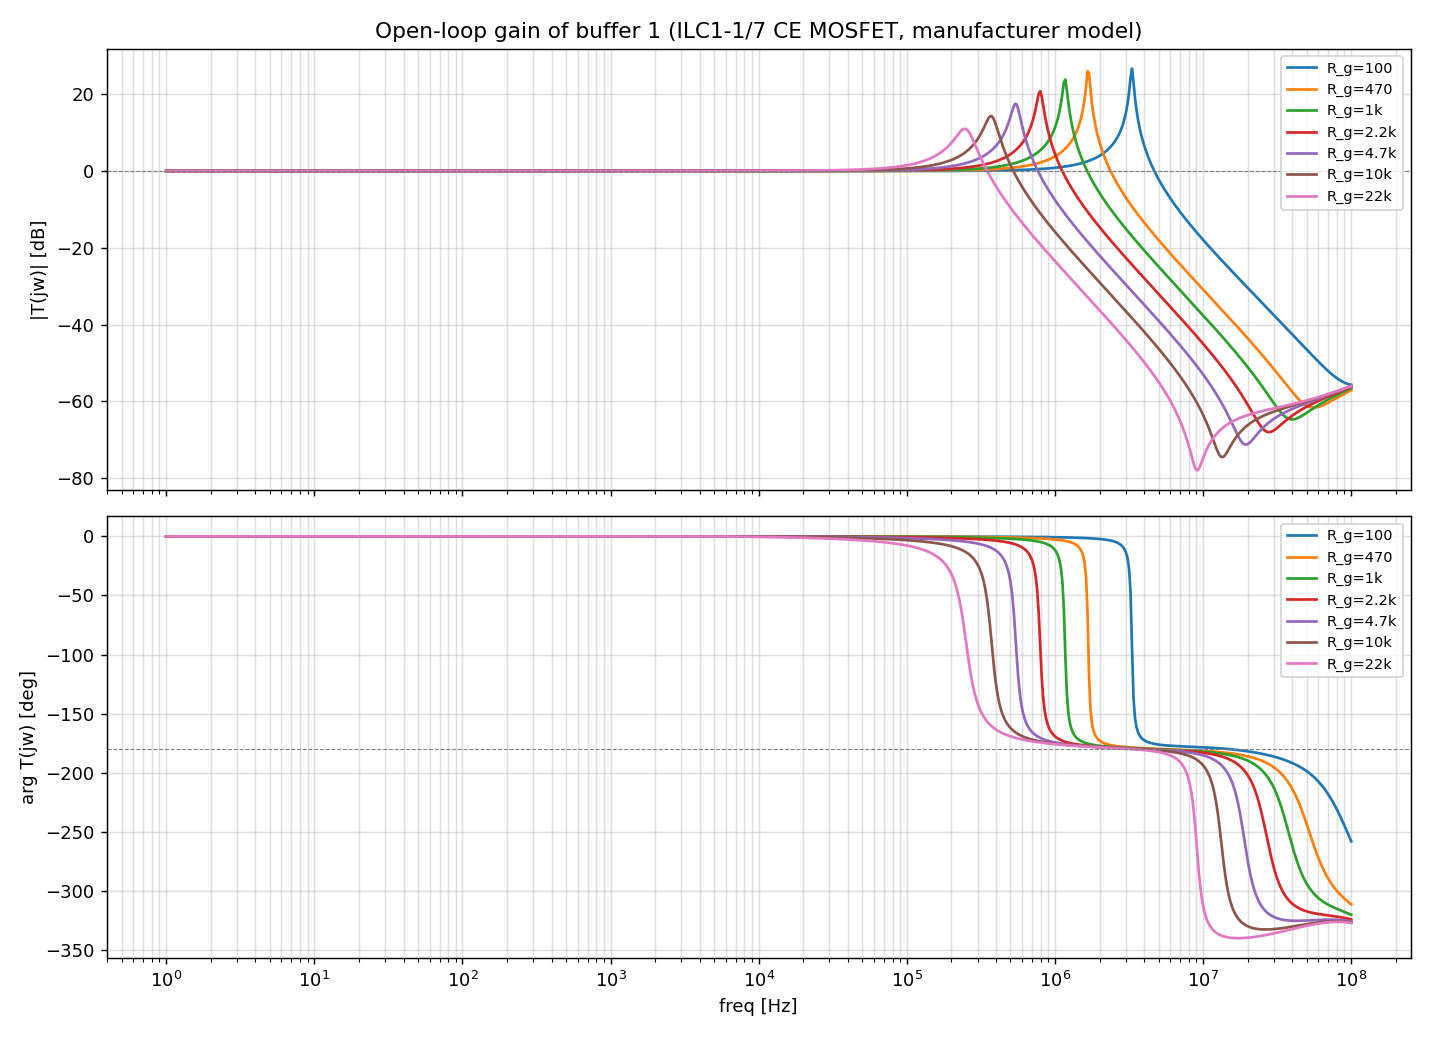
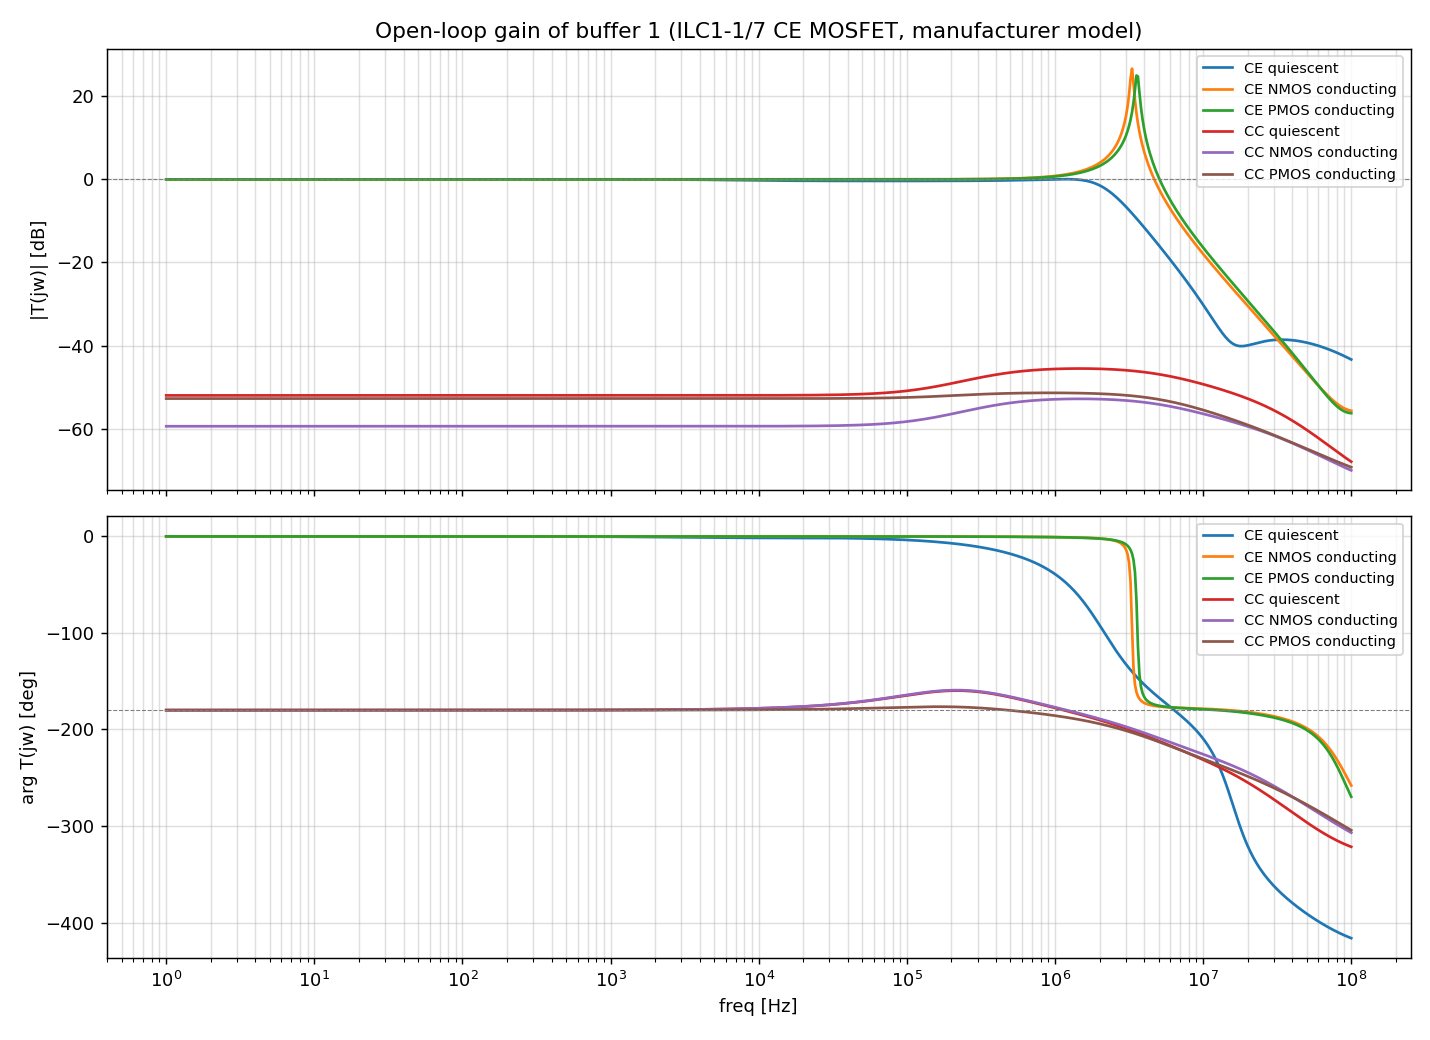
Add MOSFET source-follower (CC) buffer topology; AC confirms stability
The CE common-source MOSFET topology was unsalvageably unstable per the
AC analysis (20-27 dB resonance peak at 3-7 MHz at conducting OPs).
The motivation for CE was BJT-specific: BJT V_BE drop loses ~0.65 V
of output swing in CC, while BJT V_CE_sat in CE only loses ~0.2 V. For
MOSFETs the equivalent is V_GS (~1 V) vs V_DS_sat (~mV), so CE saves
~1 V of swing.

For ILC1-1/7 at v_buf=4.3 V, BJT CC just fits (V_pk + V_BE = 3.54 +
0.65 = 4.2 V < 4.3 V rail). MOSFET source follower at the same rail
needs V_pk + V_GS = 3.54 + ~1.5 = 5 V, which doesn't fit -- but the
existing bootstrap caps in the BJT CC bias chain (C_obb_top/bot, 4.7
uF from chain mid-point to output) lift the gate past v_buf at the
swing peak, recovering the headroom.

Implementation: extend the existing CC topology block (Q_o_npn / Q_o_pnp
emitter followers) to optionally instantiate MOSFETs in source-follower
configuration when mos_buf=True (and ce_buf=False). Same bias chain
(R-D-D-R with bootstrap), just MOSFETs swapped in for BJTs.

ILC1-1/7 set to mos_buf=True, ce_buf=False (default), v_buf=4.3 V.
buf_comp_pf, bias_zener_v, gate damping all dropped -- not needed for
source follower since the loop is naturally stable.

AC analysis (ac_buf_analysis.py with topology="cc"): loop gain stays
well below 0 dB at ALL operating points (quiescent, NMOS conducting,
PMOS conducting). No unity-gain crossing -> inherently stable. CE
topology in the same file shows the contrast:
  CE quiescent:        peak 0.1 dB
[…]

diff --git a/ngspice_examples/ac_buf_analysis.py b/ngspice_examples/ac_buf_analysis.py
@@ -32,7 +32,8 @@ def build_netlist(comp_pf: float, r_obb: float, r_gate: float,
                   comp_zero_r: float = 0,
                   drain_snub_r: float = 0,
                   drain_snub_c: float = 0,
-                  v_drv_dc: float = 0.0) -> str:
+                  v_drv_dc: float = 0.0,
+                  topology: str = "ce") -> str:
     pmos_path = (HERE / "spice_models" / "DMP3098L.spice.txt").as_posix()
     nmos_path = (HERE / "spice_models" / "DMN3404L.spice.txt").as_posix()
     opamp_lib = (HERE / "uopamp.lib").as_posix()
@@ -48,6 +49,26 @@ def build_netlist(comp_pf: float, r_obb: float, r_gate: float,
     else:
         snub_block = (f"R_drain_snub v_osc_drive n_drain_snub {drain_snub_r:.4g}\n"
                       f"C_drain_snub n_drain_snub 0 {drain_snub_c:.4g}")
+    if topology == "ce":
+        # Common source: PMOS source at vcc_buf, drain at output (top);
+        #                NMOS source at vee_buf, drain at output (bottom).
+        mosfet_block = (
+            "* MOSFETs (CE / common source) - drain at v_osc_drive\n"
+            "XM_top     v_osc_drive g_top vcc_buf DMP3098L\n"
+            "XM_bot     v_osc_drive g_bot vee_buf DMN3404L"
+        )
+    elif topology == "cc":
+        # Source follower: NMOS drain at vcc_buf, source at output (top);
+        #                  PMOS drain at vee_buf, source at output (bottom).
+        # Note swap of NMOS/PMOS positions vs CE topology: in CC, the NMOS
+        # is on top because its source follows the gate (positive output).
+        mosfet_block = (
+            "* MOSFETs (CC / source follower) - source at v_osc_drive\n"
+            "XM_top     vcc_buf g_top v_osc_drive DMN3404L\n"
+            "XM_bot     vee_buf g_bot v_osc_drive DMP3098L"
+        )
+    else:
+        raise ValueError(f"Unknown topology: {topology}")
     return f"""* Buffer 1 isolated AC small-signal testbench
 .include {opamp_lib}
 .include {pmos_path}
@@ -78,12 +99,10 @@ R_obb_top   vcc_buf         q_o_bp_top    {r_obb:.6g}
 D_obb_top   n_buf_osc_out   q_o_bp_top    Dzen_obb
 D_obb_bot   q_o_bn_bot      n_buf_osc_out Dzen_obb
 R_obb_bot   q_o_bn_bot      vee_buf       {r_obb:.6g}
-* Gate damping
-R_gd_pmos   q_o_bp_top      g_pmos        {r_gate:.6g}
-R_gd_nmos   q_o_bn_bot      g_nmos        {r_gate:.6g}
-* MOSFETs - drain at v_osc_drive (the real output node)
-XM_pmos     v_osc_drive g_pmos vcc_buf DMP3098L
-XM_nmos     v_osc_drive g_nmos vee_buf DMN3404L
+* Gate damping (g_top is gate of top device, g_bot of bottom)
+R_gd_top    q_o_bp_top      g_top         {r_gate:.6g}
+R_gd_bot    q_o_bn_bot      g_bot         {r_gate:.6g}
+{mosfet_block}
 * Output load: bridge thevenin (R_op + R_sense in parallel with reference arm)
 R_load      v_osc_drive 0 30
 .model Dzen_obb D(IS=10n N=1.0 RS=1 BV={v_z:.3g} IBV=100m CJO=80p TT=10n)
@@ -101,9 +120,11 @@ def run_and_load(comp_pf: float, r_obb: float, r_gate: float,
                  v_buf: float, v_z: float, buf_fb: float,
                  comp_zero_r: float = 0,
                  drain_snub_r: float = 0, drain_snub_c: float = 0,
-                 v_drv_dc: float = 0.0):
+                 v_drv_dc: float = 0.0,
+                 topology: str = "ce"):
     netlist = build_netlist(comp_pf, r_obb, r_gate, v_buf, v_z, buf_fb,
-                            comp_zero_r, drain_snub_r, drain_snub_c, v_drv_dc)
+                            comp_zero_r, drain_snub_r, drain_snub_c, v_drv_dc,
+                            topology)
     cir = WORK / "ac_buf.cir"
     cir.write_text(netlist)
     res = subprocess.run(["ngspice", "-b", cir.name], cwd=WORK,
@@ -134,17 +155,16 @@ def plot_bode(f, T, label, ax_mag, ax_phase, color):
 
 def main():
     # Sweep over a few comp / damping combinations.
-    # Sweep candidate compensations at the worst-case operating point
-    # (MOSFET conducting hard, where g_m is highest).
-    op_test = dict(v_drv_dc=+0.4)  # NMOS conducting hard
+    # Compare CE (common source) vs CC (source follower) topologies at
+    # quiescent and conducting operating points. Source follower should be
+    # inherently stable (no Miller, gain ~ 1) where common-source is not.
     sweeps = [
-        ("R_g=100",   dict(comp_pf=2200, r_gate=100,   **op_test)),
-        ("R_g=470",   dict(comp_pf=2200, r_gate=470,   **op_test)),
-        ("R_g=1k",    dict(comp_pf=2200, r_gate=1000,  **op_test)),
-        ("R_g=2.2k",  dict(comp_pf=2200, r_gate=2200,  **op_test)),
-        ("R_g=4.7k",  dict(comp_pf=2200, r_gate=4700,  **op_test)),
-        ("R_g=10k",   dict(comp_pf=2200, r_gate=10000, **op_test)),
-        ("R_g=22k",   dict(comp_pf=2200, r_gate=22000, **op_test)),
+        ("CE quiescent",          dict(comp_pf=2200, r_gate=100, v_drv_dc=0.0,  topology="ce")),
+        ("CE NMOS conducting",    dict(comp_pf=2200, r_gate=100, v_drv_dc=+0.4, topology="ce")),
+        ("CE PMOS conducting",    dict(comp_pf=2200, r_gate=100, v_drv_dc=-0.4, topology="ce")),
+        ("CC quiescent",          dict(comp_pf=0,    r_gate=100, v_drv_dc=0.0,  topology="cc")),
+        ("CC NMOS conducting",    dict(comp_pf=0,    r_gate=100, v_drv_dc=+0.4, topology="cc")),
+        ("CC PMOS conducting",    dict(comp_pf=0,    r_gate=100, v_drv_dc=-0.4, topology="cc")),
     ]
     fig, (ax_mag, ax_phase) = plt.subplots(2, 1, figsize=(11, 8), sharex=True)
     for i, (label, kw) in enumerate(sweeps):
@@ -155,7 +175,8 @@ def main():
                                comp_zero_r=kw.get("comp_zero_r", 0),
                                drain_snub_r=kw.get("drain_snub_r", 0),
                                drain_snub_c=kw.get("drain_snub_c", 0),
-                               v_drv_dc=kw.get("v_drv_dc", 0.0))
+                               v_drv_dc=kw.get("v_drv_dc", 0.0),
+                               topology=kw.get("topology", "ce"))
         plot_bode(f, T, label, ax_mag, ax_phase, f"C{i}")
         # Find unity-gain crossover
         mag_db = 20 * np.log10(np.abs(T))

diff --git a/ngspice_examples/test_closed_loop.py b/ngspice_examples/test_closed_loop.py
@@ -101,7 +101,7 @@ TUBES = {
     # the JFET closer to pinch-off where (1-H) is larger and V_top swing is
     # only fractionally bigger than V_diff (efficient class-AB).
     "iv6":     _make_tube("IV-6",     R_op= 20, V_op=1.0, T_op=800, R_sen= 5, R_bot_ref=500,  r_int_scale=0.3, booster=True, buf_fb1=2.0e3, buf_fb_ap=2.0e3, v_buf=1.2, ce_buf=True, mos_buf=True),
-    "ilc11_7": _make_tube("ILC1-1/7", R_op= 25, V_op=5.0, T_op=800, R_sen= 5, R_bot_ref=1000, r_int_scale=0.3, booster=True, buf_fb1=9.1e3, buf_fb_ap=9.1e3, v_buf=5.0, ce_buf=True, mos_buf=True, bias_zener_v=4.3, buf_comp_pf=22000, t_rail_ramp=100e-6),
+    "ilc11_7": _make_tube("ILC1-1/7", R_op= 25, V_op=5.0, T_op=800, R_sen= 5, R_bot_ref=1000, r_int_scale=0.3, booster=True, buf_fb1=9.1e3, buf_fb_ap=9.1e3, v_buf=4.3, mos_buf=True, t_rail_ramp=100e-6),
     "ilc11_8": _make_tube("ILC1-1/8", R_op=  8, V_op=1.2, T_op=800, R_sen= 2, R_bot_ref=200,  r_int_scale=0.3, booster=True, buf_fb1=2.5e3, buf_fb_ap=2.5e3, v_buf=1.4, ce_buf=True, mos_buf=True),
 }
 # Higher-current tubes (IV-6, ILC1-1/7, ILC1-1/8) enable the buffer stage:
@@ -356,8 +356,15 @@ def make_netlist(data_path: Path,
     # to fully turn on the FET (V_GS >= 2.5 V overdrive needed). Loses
     # the V_BE drop entirely -- V_DS at peak is just I*R_DS_on, ~5 mV
     # for typical low-V/low-I tubes.
-    if mos_buf and not ce_buf:
-        ce_buf = True   # MOSFET buffer is always CE-style
+    # mos_buf + ce_buf=True  -> MOSFET common-source push-pull (output at drain).
+    #                          Saves ~1 V of swing vs source follower but the
+    #                          loop has a high-Q resonance at conducting OPs
+    #                          (Cgd Miller + bias-chain pole) that's hard to
+    #                          stabilise without massive bandwidth loss.
+    # mos_buf + ce_buf=False -> MOSFET source follower (output at source).
+    #                          Inherently stable (100% local feedback, no
+    #                          Miller effect), at the cost of V_GS of swing
+    #                          (bootstrap caps lift gate past v_buf to recover).
     buf_op_rails = "vcc vee" if mos_buf else "vcc_buf vee_buf"
     if mos_buf:
         # 0-V current-sense sources in series with each MOSFET source. The
@@ -505,6 +512,35 @@ R_buf2_fb   v_ap_drive  n_buf_ap_sum  {buf_fb_ap:.6g}
 {bias_ap_bot}
 {bjt_or_fet_bot}"""
         else:
+            # CC topology: BJT emitter follower or MOSFET source follower.
+            # Same bias chain (R-D-D-R with bootstrap caps) for both. With
+            # MOSFETs, V_GS_th (~1 V for DMN3404L/DMP3098L) is higher than the
+            # silicon V_F (0.65 V) the diodes drop, so quiescent V_GS sits
+            # below threshold => sub-threshold class-B with op-amp loop
+            # closing the crossover. 0-V V_im_* sources sense MOSFET drain
+            # current for check_power.
+            if mos_buf:
+                cc_dev_o_top = (
+                    "V_im_o_nmos vcc_buf vcc_buf_o_nmos 0\n"
+                    "XM_o_nmos vcc_buf_o_nmos q_o_bn v_osc_drive DMN3404L"
+                )
+                cc_dev_o_bot = (
+                    "V_im_o_pmos vee_buf_o_pmos vee_buf 0\n"
+                    "XM_o_pmos vee_buf_o_pmos q_o_bp v_osc_drive DMP3098L"
+                )
+                cc_dev_a_top = (
+                    "V_im_a_nmos vcc_buf vcc_buf_a_nmos 0\n"
+                    "XM_a_nmos vcc_buf_a_nmos q_a_bn v_ap_drive DMN3404L"
+                )
+                cc_dev_a_bot = (
+                    "V_im_a_pmos vee_buf_a_pmos vee_buf 0\n"
+                    "XM_a_pmos vee_buf_a_pmos q_a_bp v_ap_drive DMP3098L"
+                )
+            else:
+                cc_dev_o_top = "Q_o_npn  vcc_buf q_o_bn v_osc_drive QBC337"
+                cc_dev_o_bot = "Q_o_pnp  vee_buf q_o_bp v_osc_drive QBC327"
+                cc_dev_a_top = "Q_a_npn  vcc_buf q_a_bn v_ap_drive QBC337"
+                cc_dev_a_bot = "Q_a_pnp  vee_buf q_a_bp v_ap_drive QBC327"
             buf12_lines = f"""
 * Buffer 1 (CC emitter follower): V_drv_atten -> V_osc_drive (gain k_buf,
 * class-AB BC337/BC327). Bootstrap caps from output to bias-chain midpoints
@@ -521,8 +557,8 @@ D_obb_bot    n_buf_osc_out q_o_bp      {bias_diode}
 R_obb_bot_b  q_o_bp       mid_obb_bot  680
 R_obb_bot_a  mid_obb_bot  vee_buf      680
 C_obb_bot    mid_obb_bot  v_osc_drive  4.7u IC=0
-Q_o_npn  vcc_buf q_o_bn v_osc_drive QBC337
-Q_o_pnp  vee_buf q_o_bp v_osc_drive QBC327
+{cc_dev_o_top}
+{cc_dev_o_bot}
 
 * Buffer 2 (CC emitter follower): V_ap -> V_ap_drive (gain k_buf_ap).
 C_buf2_dcblock v_ap         n_buf2_ac    100n IC=0
@@ -538,8 +574,8 @@ D_abb_bot    n_buf_ap_out q_a_bp       {bias_diode}
 R_abb_bot_b  q_a_bp       mid_abb_bot  680
 R_abb_bot_a  mid_abb_bot  vee_buf      680
 C_abb_bot    mid_abb_bot  v_ap_drive   4.7u IC=0
-Q_a_npn  vcc_buf q_a_bn v_ap_drive QBC337
-Q_a_pnp  vee_buf q_a_bp v_ap_drive QBC327"""
+{cc_dev_a_top}
+{cc_dev_a_bot}"""
         # Optional step-down transformer + class-C tank: at hf_mode only.
         # Buffer outputs (v_osc_drive, v_ap_drive) drive the primary, which
         # is parallel-LC tuned to f0 (impedance transformation up). The

diff --git a/ngspice_examples/check_power.py b/ngspice_examples/check_power.py
@@ -161,7 +161,7 @@ wrdata {dat.as_posix()} {wrdata_args}
     cir.write_text(netlist)
 
     res = subprocess.run(["ngspice", "-b", cir.name], cwd=work,
-                         capture_output=True, text=True, timeout=600)
+                         capture_output=True, text=True, timeout=2400)
     if res.returncode != 0:
         print(res.stderr[-2000:])
         raise RuntimeError(f"ngspice failed for {tube_key}")